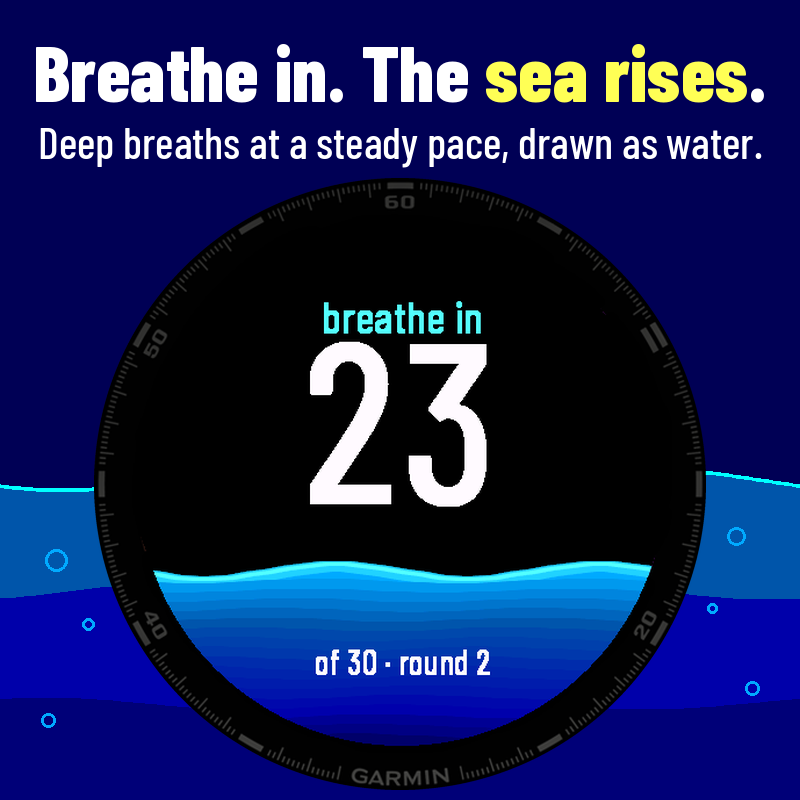
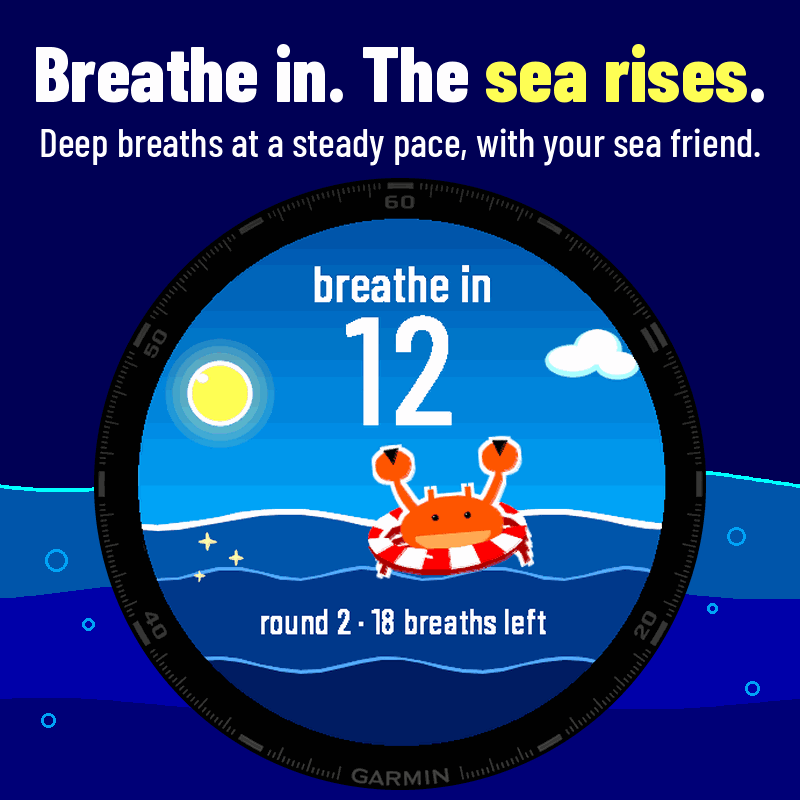
Gijs: run 70, winkelbeelden v5 uit de echte schermen, veld Screenshots bijgewerkt (winkeltekst v19), bladscript v2 [skip ci]
Claude-Session: https://claude.ai/code/session_01RMWUyhiX6fb9a76qjqboGK

diff --git a/producten/garmin-adem/bron/blad_voor_thijs_v2.py b/producten/garmin-adem/bron/blad_voor_thijs_v2.py
@@ -1,0 +1,87 @@
+# Bladen voor Thijs, versie 2 (Gijs, run 70, 12 nov 2026; opdracht hoofdchat 18:40 NL).
+# Vier smalle bladen die op een telefoon te lezen zijn: drie schermen naast elkaar, per rij het horloge en dag of nacht.
+# Alleen echte schermafbeeldingen uit de simulator, uitgesneden op het ronde scherm; er wordt niets bijgetekend.
+# Een beeld dat ontbreekt krijgt een grijs vak met zijn naam.
+#   python3 blad_voor_thijs_v2.py <map namen (volle ronde)> <map proef (9b0879b3)> <map kijk (56876656)> <uit-voorvoegsel>
+import sys, os
+from PIL import Image, ImageDraw, ImageFont
+NAMEN, PROEF, KIJK, UIT = sys.argv[1:5]
+MAP = {'n': NAMEN, 'p': PROEF, 'k': KIJK}
+# Uitsnede van het ronde scherm in de simulatorfoto (gemeten in run 64).
+HORLOGES = [('fenix847mm', 'fenix 8, 47 mm', (135, 247, 589, 701)), ('fr255', 'Forerunner 255', (80, 184, 340, 444))]
+C, GAT = 340, 16
+W = 3 * C + 4 * GAT
+ACHTER = (16, 20, 40)
+def letter(maat, vet=False):
+    return ImageFont.truetype('/usr/share/fonts/truetype/dejavu/DejaVuSans%s.ttf' % ('-Bold' if vet else ''), maat)
+FT, FK, FR, FC, FV = letter(40, True), letter(30, True), letter(26), letter(23), letter(19)
+ROND = Image.new('L', (C * 4, C * 4), 0)
+ImageDraw.Draw(ROND).ellipse([0, 0, C * 4 - 1, C * 4 - 1], fill=255)
+ROND = ROND.resize((C, C), Image.LANCZOS)
+mis = []
+
+def sessie(dier, kop):
+    # Eén dier: vier rijen (twee horloges, dag en nacht), in, uit en hold naast elkaar.
+    rijen = []
+    for h, hnaam, vak in HORLOGES:
+        for dn, dnnaam in [('dag', 'dag'), ('nacht', 'nacht')]:
+            rijen.append((hnaam + ', ' + dnnaam, [(('n', 'sessie-%s-%s-%s' % (dier, s, dn)), t) for s, t in
+                                                 [('in', 'inademen'), ('uit', 'uitademen'), ('hold', 'inhouden')]], h))
+    return (kop, rijen)
+
+def rest(kop, rij):
+    # Dezelfde drie schermen op beide horloges.
+    return (kop, [(hnaam, rij, h) for h, hnaam, vak in HORLOGES])
+
+def maak(nr, titel, blokken, voet):
+    hoogte = GAT + 56
+    for kop, rijen in blokken:
+        hoogte += 46 + len(rijen) * (38 + C + 36 + GAT)
+    hoogte += 30 * len(voet) + GAT
+    blad = Image.new('RGB', (W, hoogte), ACHTER)
+    dr = ImageDraw.Draw(blad)
+    dr.text((GAT, GAT), titel, fill=(255, 255, 255), font=FT)
+    y = GAT + 56
+    vakken = dict((h, vak) for h, n, vak in HORLOGES)
+    for kop, rijen in blokken:
+        dr.text((GAT, y + 4), kop, fill=(255, 230, 120), font=FK)
+        y += 46
+        for rnaam, cellen, h in rijen:
+            dr.text((GAT, y + 2), rnaam, fill=(150, 220, 255), font=FR)
+            y += 38
+            for i, ((bron, naam), t) in enumerate(cellen):
+                x = GAT + i * (C + GAT)
+                p = os.path.join(MAP[bron], '%s-%s.png' % (naam, h))
+                if os.path.exists(p):
+                    im = Image.open(p).convert('RGB').crop(vakken[h]).resize((C, C), Image.LANCZOS)
+                    blad.paste(im, (x, y), ROND)
+                else:
+                    mis.append(p)
+                    dr.rectangle([x, y, x + C - 1, y + C - 1], fill=(60, 60, 70))
+                    dr.text((x + 10, y + C // 2), 'ontbreekt: ' + naam[:22], fill=(255, 200, 120), font=FV)
+                tw = dr.textlength(t, font=FC)
+                dr.text((x + (C - tw) // 2, y + C + 4), t, fill=(225, 230, 245), font=FC)
+            y += C + 36 + GAT
+    for regel in voet:
+        dr.text((GAT, y), regel, fill=(160, 170, 200), font=FV)
+        y += 30
+    uit = '%s-%d.png' % (UIT, nr)
+    blad.save(uit, optimize=True)
+    print(uit, blad.size, os.path.getsize(uit), 'bytes')
+
+VOET = ['Echte schermen uit de Connect IQ-simulator, niets bijgetekend.', 'Volle ronde run 43257045972 (commit 3bc2008), alle 13 horloges groen.']
+VOET2 = VOET + ['De code is daarna alleen veranderd in tekst en gedrag (9b0879b3),', 'niet in deze schermen.']
+maak(1, 'Ebb 1 van 4: krab en schildpad', [sessie('krab', 'Krab met zwemband (eigen wereld)'), sessie('schild', 'Schildpad met meeuw (eigen wereld)')], VOET2)
+maak(2, 'Ebb 2 van 4: twee basisdieren', [sessie('basis', 'Dolfijn (familie vliegers, zandbodem)'), sessie('otter', 'Zeeotter (familie strand, zeegras)')], VOET2)
+maak(3, 'Ebb 3 van 4: eerste sessie en einde', [
+    sessie('eerste', 'Eerste sessie na het kopen: de vis'),
+    rest('Eindscherm na de rondes', [(('k', 'einde-6b'), 'na sessie 1'), (('n', 'einde-6b'), 'nieuw dier'), (('n', 'einde-6c'), 'volgend dier in zicht')]),
+    rest('Eindscherm, bijzondere gevallen', [(('k', 'einde-6c'), 'vanzelf gestopt op 5:00'), (('n', 'einde-6d'), 'na Calm'), (('n', 'einde-sea-complete'), 'alle 24 dieren')])],
+    VOET + ['"Fish stays with you" en "5:00 auto": kijkproef op de nieuwste code', '(run 43266852163, commit 5687665), zelfde code als 9b0879b3.'])
+maak(4, 'Ebb 4 van 4: start, pauze, sea log', [
+    rest('Startscherm', [(('n', 'thuis-menu-leeg-dag'), 'allereerste start'), (('n', 'thuis-menu-dag'), 'dag, met je dier'), (('n', 'thuis-menu-nacht'), 'nacht')]),
+    rest('Uitleg en pauze', [(('p', 'uitleg'), 'uitleg, eerste keer'), (('p', 'thuis-pauze-dag'), 'pauze, dag'), (('p', 'thuis-pauze-nacht'), 'pauze, nacht')]),
+    rest('Sea log', [(('n', 'thuis-sealog-dag'), '8 van 24, dag'), (('n', 'thuis-sealog-nacht'), '8 van 24, nacht'), (('n', 'thuis-sealog-alle-nacht'), 'alles, nacht')]),
+    rest('Today, 8 weeks en Calm', [(('n', 'today'), 'Today'), (('n', '8weeks'), '8 weeks'), (('n', 'rustig'), 'Calm 4-7-8')])],
+    VOET + ['Uitleg en pauze: korte ronde run 43268276127 (commit 9b0879b3).'])
+print(len(mis), 'beelden ontbreken', mis)

diff --git a/producten/garmin-adem/winkeltekst.md b/producten/garmin-adem/winkeltekst.md
@@ -1,4 +1,6 @@
-# Ebb: winkeltekst (versie 17, CONCEPT, Gijs, 12 nov 2026 16:30 UTC)
+# Ebb: winkeltekst (versie 19, CONCEPT, Gijs, 12 nov 2026 18:10 UTC)
+
+Versie 19 (run 70, productkeuring 12 nov punt 6): alleen het veld Screenshots. Poster v5 en vijf kaarten opnieuw gemaakt uit de echte schermen met de zee en de werelden (krab met zwemband, schildpad onder water); de oude beelden v4.1 zijn weg. Tekst zelf ongewijzigd.
 
 Versie 18 (run 69, herkeuring veiligheid 1 en 2): de zin over vijf minuten zegt nu in drie talen dat de sessie na het herstel eindigt en opslaat, en dat die inhouding niet meetelt in het gemiddelde.
 
@@ -51,7 +53,7 @@ Versie 2 op basis van `platformen/garmin/onderzoek-winkeltekst-2026-11-10.md` (m
 - Extra taal (veld per taal in de winkel, `appLocalizations`): Deutsch en Nederlands, titel en tekst hieronder. De app zelf is Engels; dat staat in die teksten.
 - What's new: `First release.`
 - Icon: `producten/garmin-adem/winkel/icoon-500-v3.png` (Mila v3, blauwe walvis in de patrijspoort, `ontwerp/garmin/blad12/`). Het startpictogram op het horloge is haar kleine versie (walvis groot, zonder rand), per horlogemaat in `resources*/drawables/launcher_icon.png`.
-- Screenshots, in deze volgorde, alle uit `producten/garmin-adem/winkel/`: `0-poster-v41.png` (1000 x 1000, kop "Breathe. Make sea friends.", "no extra account"), daarna vijf kaarten van 800 x 800, elk onder 150 KB: `1-breathe.png` (scène ademen-in, "breathe in 23"), `2-new-friend.png` (scène 34), `3-sea-log.png` (scène 4), `4-sea-complete.png` (scène 25, ongewijzigd: pixel voor pixel gelijk aan de opname van nu), `5-sea-cucumber.png` (scène 33, "back after a break"). Alles gemaakt met `winkel/maak_winkel_v41.py`, dat Mila's `poster_v4.py` en `winkel_v4.py` (main, `ontwerp/garmin/bron/`) gebruikt, uit de ongewijzigde fenix 8 47 mm-opnames van plaatjesrun 43167720322 (code 9f66378). Alleen schermen die in de app zitten; geen beeld van de werelden (krab met zwemband, schildpad), want die zitten nog niet in de app.
+- Screenshots, in deze volgorde, alle uit `producten/garmin-adem/winkel/` (dezelfde zes staan op main in `ontwerp/garmin/winkel-echt/`): `0-poster-v5.png` (1000 x 1000, kop "Breathe. Make sea friends.", het ademscherm van de krab met zwemband, "One payment, no subscription, no extra account"), daarna vijf kaarten van 800 x 800, elk onder 150 KB: `1-breathe.png` (scène `sessie-krab-in-dag`, de krab boven water), `2-hold.png` (scène `sessie-schild-hold-dag`, de schildpad onder water), `3-new-friend.png` (scène `calm-einde-krab`, "new friend: Crab"), `4-sea-log.png` (scène `sealog-1`, 8 van 24), `5-sea-complete.png` (scène `einde-sea-complete`, 24 van 24). Alles gemaakt met `winkel/maak_winkel_v5.py`, dat Mila's `poster_v4.py` en `winkel_v4.py` (main, `ontwerp/garmin/bron/`) gebruikt, uit de ongewijzigde fenix 8 47 mm-opnames van de volle plaatjesrun 43257045972 (code 3bc2008, alle dertien horloges groen). De code is daarna (9b0879b3) alleen veranderd in tekst en gedrag; deze schermen horen daarbij niet veranderd te zijn, maar dat is nog NIET nagelopen: doen met de pixelvergelijking van de volle ronde op 9b0879b3. Alleen schermen die in de app zitten. De kaarten zeggen nergens dat elk dier een eigen wereld heeft.
 - Support e-mail: thijs@dortus.com (supportadres van Dortus, `ontwerp/stijl.md`).
 
 ## Description (English)
